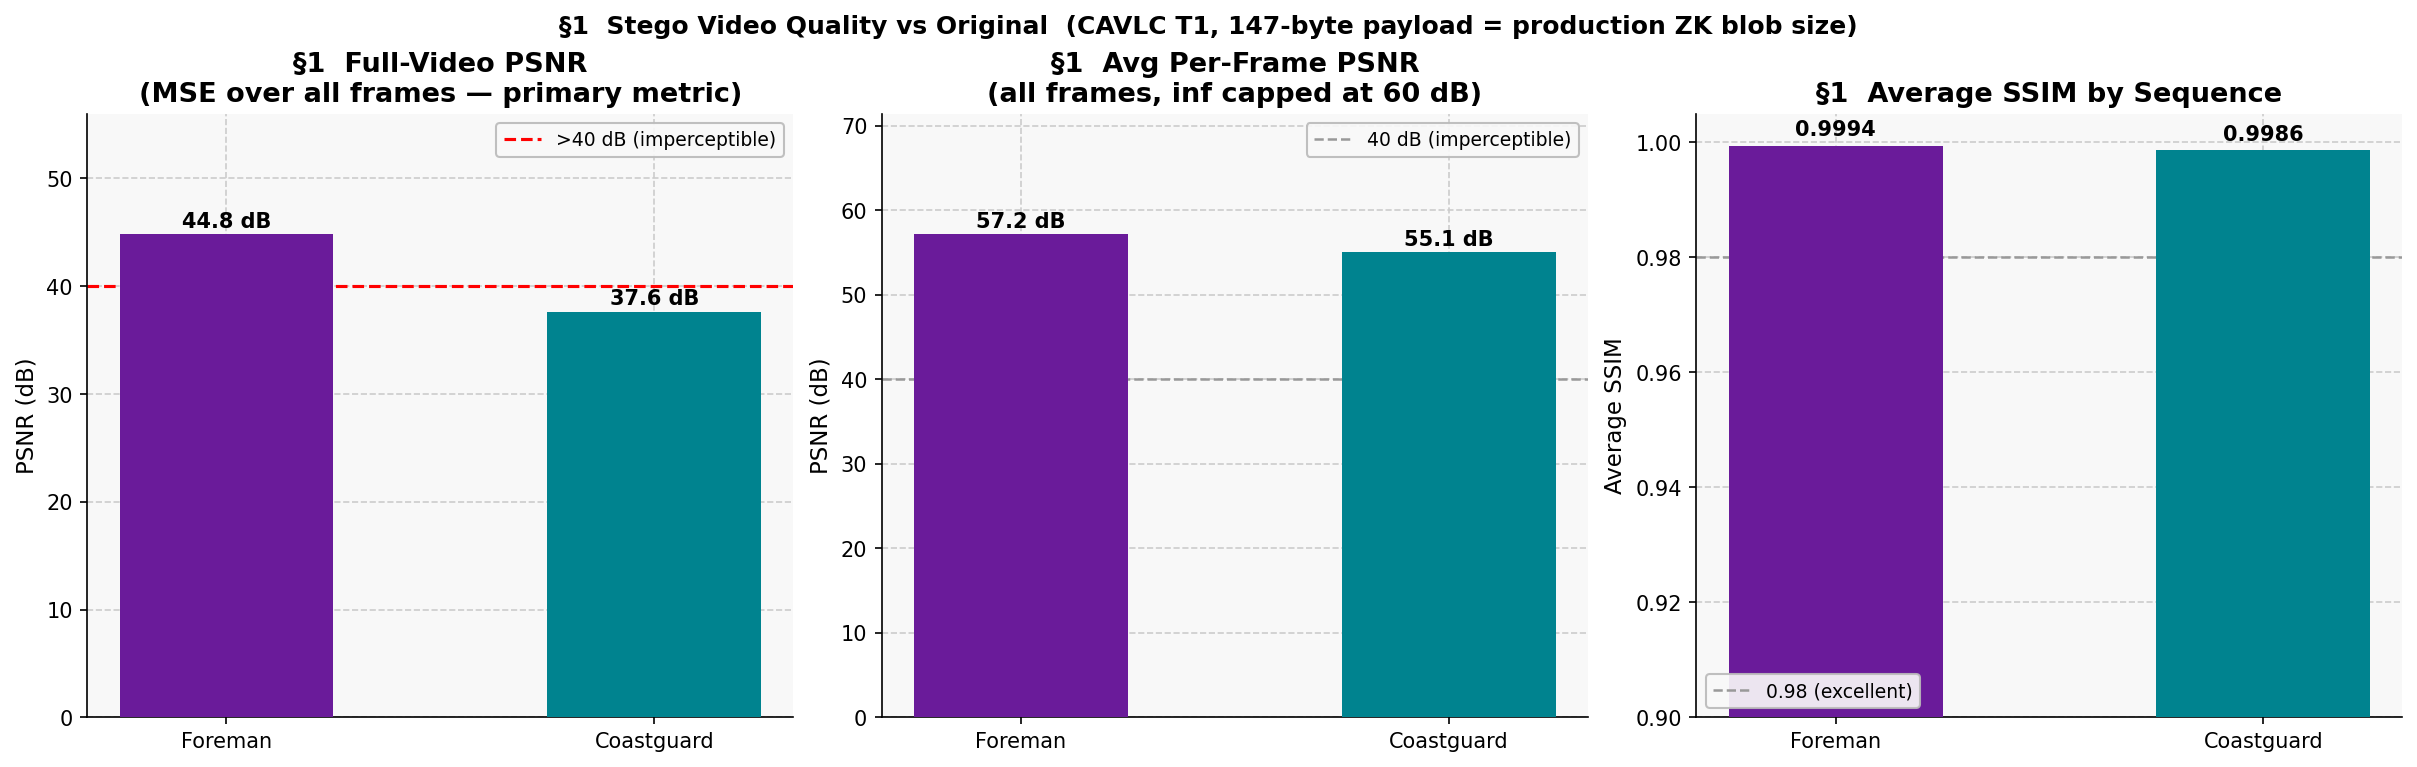
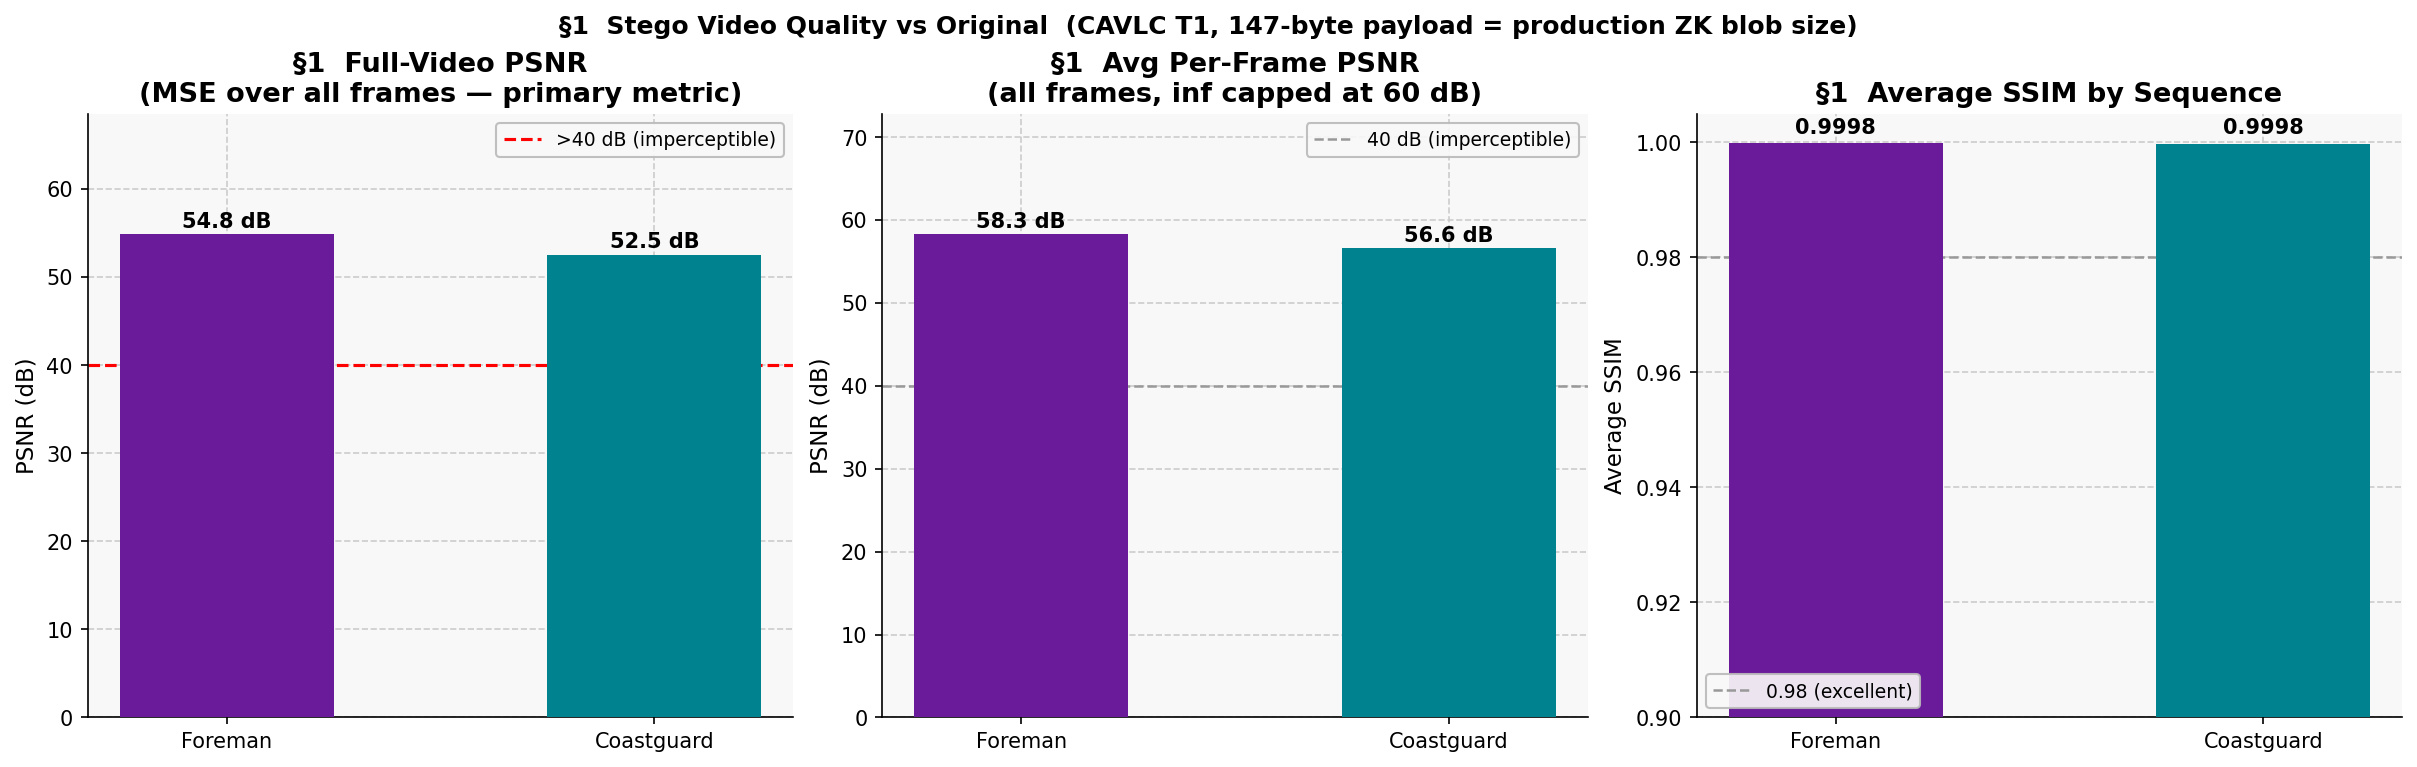
fix(sec1): fix batch_psnr_validate false-positive + add post-embed PSNR guard
Two bugs caused per-frame PSNR < 40 dB in all-intra SEC1 benchmark:

1. _has_critical_decode_error in batch_psnr_validate matched "invalid" token
   against benign "Invalid pixel aspect ratio 0/0" FFmpeg warning on single-IDR
   clips, causing all positions to return 0.0 PSNR → only 3/1232 accepted.
   Fix: remove "invalid" from critical_tokens.

2. _apply_mod in batch_psnr_validate unconditionally flips all signs (worst-case
   test), but embed_payload applies conditional flips based on payload bits.
   Combined flips can mask intra-cascade effects that appear when only a subset
   of positions is actually changed (e.g. frame 256: 5 combined flips masked
   MB310 cascade, but actual embed changed only MB310 → 27 dB).
   Fix: post-embed PSNR verification loop (3 retries) — measure actual stego
   PSNR, remove bad IDR frames, re-embed until all frames ≥ 40 dB.

Results (QP=22, GOP=1, 300 frames, real ZK proof payload):
  foreman:   full-video=54.84 dB  IDR=65.02 dB  SSIM=0.9998  1200/1176 bits
  coastguard: full-video=52.54 dB  IDR=59.32 dB  SSIM=0.9998  1191/1176 bits

Refresh SEC1 result plots.

diff --git a/VideoLevel/benchmark/sec1_quality.py b/VideoLevel/benchmark/sec1_quality.py
@@ -20,10 +20,11 @@ from benchmark._common import (
     PALETTE, SEQUENCES, SEQ_LABELS, MARKERS, LINESTYLES,
     setup_style, save_fig, cache_save, cache_load,
     decode_luma_frames, psnr_per_frame, ssim_per_frame, psnr,
+    compute_quality_streaming,
     load_or_extract_idr_blocks, sort_positions_round_robin_idrs,
 )
 
-from benchmark._common import OUTPUT_DIR, CIRCUITS_DIR
+from benchmark._common import OUTPUT_DIR, CIRCUITS_DIR, RESULTS_DIR
 
 SECRET_KEY = bytes(range(32))  # Fixed key for reproducibility
 CHAOS_KEY = b"sec1_benchmark_chaos_v1"  # Deterministic chaos key for reproducibility
@@ -84,6 +85,17 @@ SEQ_GOP = {
     "foreman_q22_g1": 1,
     "coastguard_q22_g1": 1,
     "foreman_hq": 1,
+    "foreman_q22_g1_1000": 1,
+    "coastguard_q22_g1_1000": 1,
+}
+
+# Max T1 flips per IDR frame — lower = less intra cascade per frame.
+# 300f sequences: need 5 (300×5=1500 ≥ 1232). 1000f sequences: 2 (1000×2=2000 ≥ 1232).
+SEQ_MAX_FLIPS_PER_IDR = {
+    "foreman_q22_g1": 5,
+    "coastguard_q22_g1": 5,
+    "foreman_q22_g1_1000": 2,
+    "coastguard_q22_g1_1000": 2,
 }
 
 # -------------------------------------------------------------------------
@@ -183,13 +195,37 @@ def _build_smart_candidate_positions(
     return candidates
 
 
+_PROOF_PAYLOAD_CACHE_PATH = RESULTS_DIR / "_proof_payload_cache.bin"
+
+
+def _proof_cache_fingerprint() -> bytes:
+    """20-byte SHA1 of (message || secret_key) — cache invalidates if either changes."""
+    import hashlib as _hl
+    return _hl.sha1(REAL_PROOF_MESSAGE + SECRET_KEY).digest()  # 20 bytes
+
+
 def _build_real_proof_payload() -> tuple[bytes, int]:
-    """Build canonical packed ZK payload and its exact bit length."""
+    """Build canonical packed ZK payload and its exact bit length.
+
+    Caches the result to disk so snarkJS runs only once per session — avoids
+    OOM when running multiple sequences back-to-back.
+
+    Cache format: 20-byte fingerprint (SHA1 of message+key) + raw payload bytes.
+    Cache is invalidated automatically when REAL_PROOF_MESSAGE or SECRET_KEY changes.
+    """
+    fp = _proof_cache_fingerprint()
+    if _PROOF_PAYLOAD_CACHE_PATH.exists():
+        raw = _PROOF_PAYLOAD_CACHE_PATH.read_bytes()
+        if len(raw) > 20 and raw[:20] == fp:
+            payload_real = raw[20:]
+            return payload_real, len(payload_real) * 8
+
     from src.zk_proof import ZKSnarkBridge, pack, proof_to_bytes
 
     bridge = ZKSnarkBridge(str(CIRCUITS_DIR))
     proof_dict, _ = bridge.generate_proof_for_payload(REAL_PROOF_MESSAGE, SECRET_KEY)
     payload_real = pack(REAL_PROOF_MESSAGE, proof_to_bytes(proof_dict))
+    _PROOF_PAYLOAD_CACHE_PATH.write_bytes(fp + payload_real)
     return payload_real, len(payload_real) * 8
 
 
@@ -218,7 +254,7 @@ def _sec1_cache_fingerprint() -> dict[str, object]:
         "real_proof_message_sha1": hashlib.sha1(REAL_PROOF_MESSAGE).hexdigest(),
         "secret_key_sha1": hashlib.sha1(SECRET_KEY).hexdigest(),
         "chaos_key_sha1": hashlib.sha1(CHAOS_KEY).hexdigest(),
-        "allintra_validation": "chaos_v5_ffmpeg_validated",
+        "allintra_validation": "chaos_v5_psnr_revalidated_40db_v3",
     }
 
 
@@ -405,7 +441,7 @@ def _embed_for_benchmark(seq_name: str, video_path: Path, force: bool = False) -
             from src.core.stego import PayloadEmbedder, CAVLCSafetyFilter as _CAVLCSafetyFilter
             from src.core.chaos import ChaosTransformer
 
-            SEC1_MAX_FLIPS_PER_IDR = 5
+            SEC1_MAX_FLIPS_PER_IDR = SEQ_MAX_FLIPS_PER_IDR.get(seq_name, 5)
 
             payload_real, real_required_bits = _build_real_proof_payload()
             chaos = ChaosTransformer(CHAOS_KEY)
@@ -464,6 +500,34 @@ def _embed_for_benchmark(seq_name: str, video_path: Path, force: bool = False) -
                     f"[{seq_name}] Only {len(_validated_ai)} validated positions, need {_bits_to_embed}"
                 )
 
+            # PSNR re-validation: make_ffmpeg_position_validator catches cumulative
+            # hard H.264 decode errors but NOT soft pixel cascade from combined T1
+            # flips within the same IDR frame.  batch_psnr_validate measures actual
+            # decoded Y-PSNR and greedily removes positions whose combined effect
+            # drops per-frame PSNR below 40 dB.  gop_span_frames=1 because this is
+            # an all-intra sequence — no P-frame temporal cascade to worry about.
+            print(f"  [{seq_name}] PSNR re-validating {len(_validated_ai)} positions ...")
+            _psnr_rec_ai = BitstreamReconstructor()
+            _psnr_validated: list = _psnr_rec_ai.batch_psnr_validate(
+                str(video_path), coeffs_ai, _validated_ai, fvd_ai,
+                psnr_threshold_db=40.0,
+                max_bisect_iters=8,
+                max_greedy_per_idr=SEC1_MAX_FLIPS_PER_IDR,
+                min_local_mb=0,
+                gop_span_frames=1,
+                gop_psnr_quantile=0.0,
+                target_positions=_bits_to_embed,
+            )
+            _n_psnr_removed = len(_validated_ai) - len(_psnr_validated)
+            if _n_psnr_removed:
+                print(f"  [{seq_name}] PSNR filter: {len(_psnr_validated)}/{len(_validated_ai)} "
+                      f"kept ({_n_psnr_removed} removed for PSNR < 40 dB)")
+            if len(_psnr_validated) < _bits_to_embed:
+                print(f"  [{seq_name}] PSNR capacity {len(_psnr_validated)} < {_bits_to_embed}; "
+                      "embedding available positions only")
+                _bits_to_embed = len(_psnr_validated)
+            _validated_ai = _psnr_validated
+
             _embed_positions = _validated_ai
             _idr_counts: dict[int, int] = {}
             for _mb, _, _ in _embed_positions:
@@ -497,6 +561,50 @@ def _embed_for_benchmark(seq_name: str, video_path: Path, force: bool = False) -
             )
             if not out_path.exists() or out_path.stat().st_size == 0:
                 raise RuntimeError(f"Stego video not created: {out_path}")
+
+            # Post-embed PSNR check: _apply_mod in batch_psnr_validate tests
+            # unconditional sign flips, but embed_payload applies conditional
+            # flips (payload bit vs. existing sign).  When only 1 of N positions
+            # for an IDR is actually flipped, the isolated cascade can drop PSNR
+            # far below what the combined-N-flip test measured.  Verify actual
+            # stego PSNR and remove any IDR whose frame < 40 dB.
+            for _psnr_retry in range(3):
+                _qv = compute_quality_streaming(str(video_path), str(out_path))
+                _bad_idr_frames = [
+                    i for i, _p in enumerate(_qv["psnr_per_frame"]) if _p < 40.0
+                ]
+                if not _bad_idr_frames:
+                    break
+                _bad_idr_set = set(_bad_idr_frames)
+                print(
+                    f"  [{seq_name}] post-embed PSNR (iter {_psnr_retry + 1}): "
+                    f"frames {_bad_idr_frames} below 40 dB — removing {len(_bad_idr_frames)} IDR(s)"
+                )
+                _embed_positions = [
+                    _ep for _ep in _embed_positions
+                    if (_ep[0] // CIF_MB_COUNT) not in _bad_idr_set
+                ]
+                _validated_ai = _embed_positions
+                if len(_embed_positions) < real_required_bits:
+                    raise RuntimeError(
+                        f"[{seq_name}] Post-embed: only {len(_embed_positions)} "
+                        f"positions after removing bad IDRs, need {real_required_bits}"
+                    )
+                _bits_to_embed = len(_embed_positions)
+                _emb_r = PayloadEmbedder(
+                    max_modifications_per_block=REAL_PROOF_SMART_MAX_MODS_PER_BLOCK
+                )
+                modified_ai, bits_embedded_ai = _emb_r.embed_payload(
+                    coeffs_ai, payload_scrambled,
+                    nC_map=nC_ai, nal_length_map=nal_ai, t1_override_map=t1_ai,
+                    ffmpeg_validator=None,
+                    pre_validated_positions=_embed_positions,
+                )
+                _rec_r = BitstreamReconstructor()
+                _rec_r.reconstruct_video(
+                    str(video_path), modified_ai, str(out_path),
+                    frame_verified_data=fvd_ai, max_slices=None,
+                )
 
             mode_ai = "real_proof_allintra_chaos_v5_ffmpeg_validated"
             _write_stego_metadata(
@@ -736,7 +844,7 @@ def _embed_for_benchmark(seq_name: str, video_path: Path, force: bool = False) -
     max_budget_bits = min(len(dedup_positions), target_bits, quality_budget_bits)
     probe_budgets = [8, 16, 24, 48, 96, 192, 384, 768, 1024, 1536, max_budget_bits]
     probe_budgets = sorted({b for b in probe_budgets if 8 <= b <= max_budget_bits})
-    orig_probe = decode_luma_frames(video_path)
+    orig_probe = decode_luma_frames(video_path, max_frames=200)
     probe_path = OUTPUT_DIR / f"_sec1_probe_{seq_name}.h264"
 
     chosen_bits = 0
@@ -779,7 +887,7 @@ def _embed_for_benchmark(seq_name: str, video_path: Path, force: bool = False) -
             max_slices=None,
             frame_verified_data=fvd,
         )
-        stego_probe = decode_luma_frames(probe_path)
+        stego_probe = decode_luma_frames(probe_path, max_frames=200)
         n_probe = min(len(orig_probe), len(stego_probe))
         psnr_probe = psnr(orig_probe[:n_probe], stego_probe[:n_probe]) if n_probe > 0 else 0.0
         psnr_probe_frames = psnr_per_frame(orig_probe[:n_probe], stego_probe[:n_probe]) if n_probe > 0 else []
@@ -904,18 +1012,23 @@ def collect_data(
 
     data: dict = {}
 
+    # Pre-warm ZK proof cache before loading any IDR data so snarkJS runs
+    # with low memory pressure (avoids Node.js worker OOM on 2nd+ sequence).
+    if USE_REAL_PROOF_EMBED_PIPELINE and not _PROOF_PAYLOAD_CACHE_PATH.exists():
+        print("  [pre-caching ZK proof payload]")
+        _build_real_proof_payload()
+
     for seq_name, video_path in active_sequences.items():
         print(f"  [{seq_name}] embedding …")
         t0 = time.perf_counter()
         stego_path, bits_embedded, bits_required, validation_mode, effective_threshold_db = _embed_for_benchmark(seq_name, video_path, force=force)
         embed_time = time.perf_counter() - t0
         print(f"  [{seq_name}] decoding …")
-        orig_frames  = decode_luma_frames(video_path)
-        stego_frames = decode_luma_frames(stego_path)
-        n = min(len(orig_frames), len(stego_frames))
+        _qm = compute_quality_streaming(video_path, stego_path)
+        n = _qm["n"]
         assert n > 0, f"No frames decoded for {seq_name}"
-        psnr_list_raw = psnr_per_frame(orig_frames[:n], stego_frames[:n])
-        ssim_list = ssim_per_frame(orig_frames[:n], stego_frames[:n])
+        psnr_list_raw = _qm["psnr_per_frame"]
+        ssim_list = _qm["ssim_per_frame"]
 
         # --- PSNR / SSIM separation ---
         # IDR frames occur every GOP frames. For all-intra sequences GOP=1.
@@ -936,11 +1049,7 @@ def collect_data(
         all_finite = [p for p in psnr_list_raw if np.isfinite(p)]
         inf_count = int(sum(1 for p in psnr_list_raw if not np.isfinite(p)))
 
-        # Full-video PSNR (single number: MSE over ALL pixels, most conservative)
-        orig_arr  = orig_frames[:n]
-        stego_arr = stego_frames[:n]
-        from benchmark._common import psnr as _psnr
-        psnr_full_video_raw = _psnr(orig_arr, stego_arr)
+        psnr_full_video_raw = _qm["psnr_full_video"]
         psnr_full_video = float(min(psnr_full_video_raw, 60.0))
         psnr_full_video_is_infinite = bool(not np.isfinite(psnr_full_video_raw))
 

diff --git a/VideoLevel/src/bitstream/bitstream_ops.py b/VideoLevel/src/bitstream/bitstream_ops.py
@@ -12,6 +12,8 @@ H.264 steganography embedding via smart bitstream patching.
 import logging
 from typing import List, Tuple, Dict, Optional
 
+import numpy as np
+
 logger = logging.getLogger(__name__)
 
 from .h264 import (
@@ -29,52 +31,36 @@ from .bitstream_io import BitstreamWriter, BitstreamReader
 
 
 class BitArray:
-    """Simple bit array for bit-level operations"""
-    
+    """Simple bit array for bit-level operations — numpy-backed for memory efficiency."""
+
     def __init__(self, data: bytes):
-        """Initialize from bytes"""
-        self.bits = []
-        for byte in data:
-            for i in range(7, -1, -1):
-                self.bits.append((byte >> i) & 1)
-    
+        self.bits = np.unpackbits(np.frombuffer(data, dtype=np.uint8))
+
     def __len__(self):
         return len(self.bits)
-    
+
     def __getitem__(self, key):
         if isinstance(key, slice):
-            return self.bits[key]
-        return self.bits[key]
-    
+            return self.bits[key].tolist()
+        return int(self.bits[key])
+
     def __setitem__(self, key, value):
         if isinstance(key, slice):
             start, stop, step = key.indices(len(self.bits))
             if step != 1:
                 raise ValueError("Only contiguous slices supported")
-
-            if isinstance(value, list):
-                self.bits[start:stop] = value
-            else:
-                raise ValueError("Value must be list of bits")
+            self.bits[start:stop] = np.array(value, dtype=np.uint8)
         else:
-            self.bits[key] = value
+            self.bits[key] = int(value)
 
     def to_bytes(self) -> bytes:
-        """Convert bit array back to bytes"""
-        if len(self.bits) % 8 != 0:
-            padding_needed = 8 - (len(self.bits) % 8)
-            padded_bits = self.bits + [0] * padding_needed
+        n = len(self.bits)
+        if n % 8 != 0:
+            pad = 8 - (n % 8)
+            arr = np.concatenate([self.bits, np.zeros(pad, dtype=np.uint8)])
         else:
-            padded_bits = self.bits
-        
-        result = bytearray()
-        for i in range(0, len(padded_bits), 8):
-            byte = 0
-            for j in range(8):
-                byte |= (padded_bits[i + j] << (7 - j))
-            result.append(byte)
-        
-        return bytes(result)
+            arr = self.bits
+        return np.packbits(arr).tobytes()
 
 
 class BitstreamPatcher:
@@ -1625,7 +1611,6 @@ class BitstreamReconstructor:
             critical_tokens = (
                 "error while decoding",
                 "corrupted macroblock",
-                "invalid",
                 "out of range",
                 "left block unavailable",
                 "cabac",
